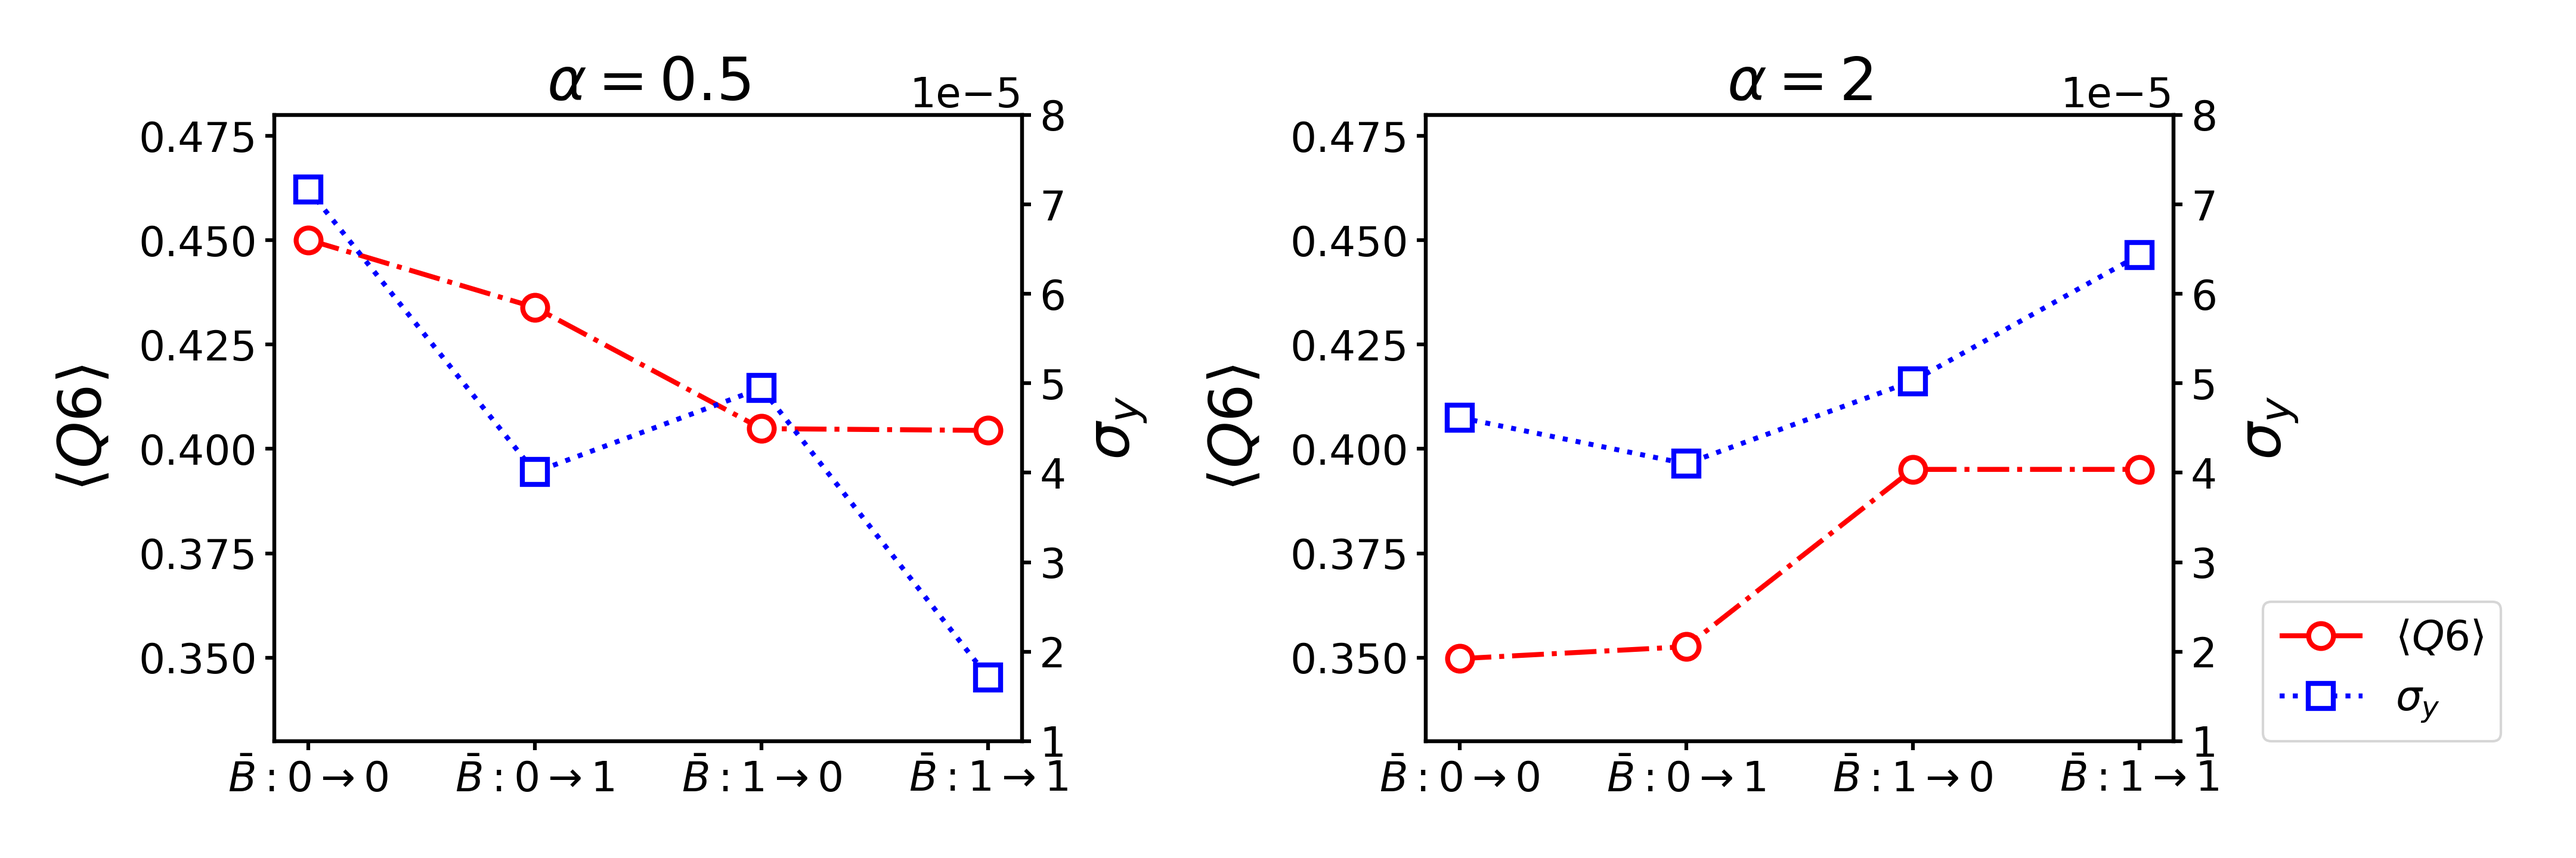
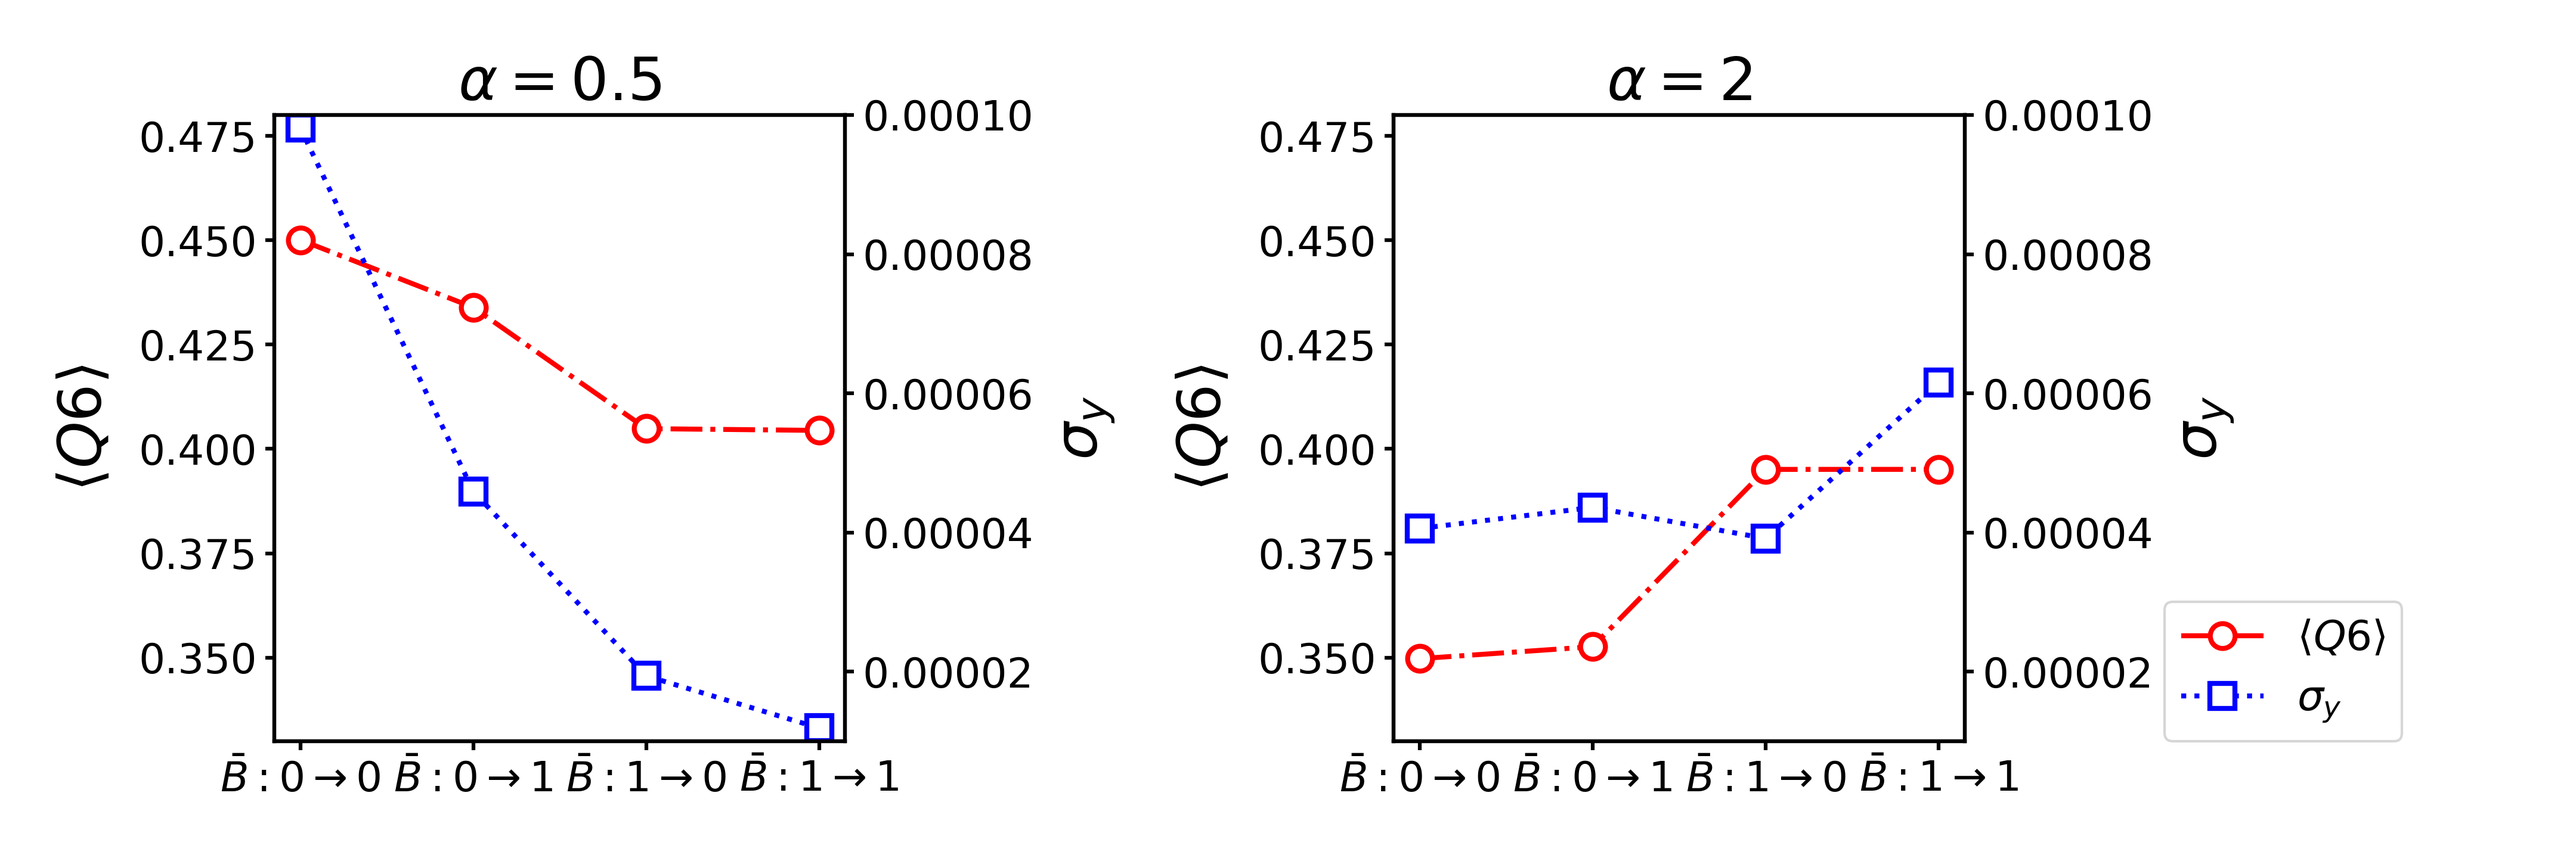
Changes 1. Modified rheology of bijels chapter

diff --git a/chapters/paper3.tex b/chapters/paper3.tex
@@ -197,38 +197,65 @@ maximizes the interface covered by the particle. \cite{davies_dipolar_2015, davi
 out of the interface. Upon application of shear, the orientation of particles on the interface will be a function of the applied shear rate, 
 applied magnetic field and the capillary forces of the interface on the particle. \cite{cao_modeling_2021, chhabra_drag_1999, brenner_stokes_1963, naga_capillary_2021}
 Therefore, the degree of interface angle change observed can shed light onto the rheological 
-differences of bijels stabilized by prolate and oblate particles as the shear stress determined is affected by the particle rotation on the interface. 
+differences of bijels stabilized by prolate and oblate particles as the shear stress determined is affected by the particle rotation on the interface. We focus on
+the effect of particle alignment to the shear direction to isolate the effect of shear driven particle realignment at the interface. 
 
-We analyzed the angle between each particles symmetry axis and the local interface normal by generating a mesh of the interface using the marching 
+To assess the particle alignment to the applied shear, we calculate the average angle to the direction of shear, $\langle \theta_z \rangle$. This is calculated
+by calculating the angle between the orientation vector $\vec{o}$ and the z axis $\vec{r_z}$ given by 
+$\theta_z = \arccos(\frac{ \vec{o} \cdot \vec{r_z} }{ |\vec{o}| |\vec{r_z}| })$. This is done for all particles with $\langle \theta_z \rangle$ calculated from
+by taking the numerical average of $\theta_z$ for all particles. The results are plotted in Figure \ref{fig:theta_z_specific}.
+
+\begin{figure} 
+    \centering 
+    \includegraphics[scale=0.3]{../figures/results/paper3/theta_z-time_compare-specific.png} 
+    \caption{Comparisons of the interfacial angle of bijels stabilized by ellipsoidal particles as a function of 
+             the applied shear rate at four different processing histories. We show that upon application of shear
+             particles tilt out of the interface reduces the interfacial area stabilized. $\bar{B}: 0 \to 1$ shows 
+             large variations in the interface angle.} 
+    \label{fig:theta_z_specific} 
+\end{figure}
+
+From Figure \ref{fig:theta_z_specific}, the effect of the aspect ratio of the particle stabilizer and the ordering of particles to the magnetic field. For oblate 
+particles, the change in $\langle \theta_z \rangle$ over time can be seen to stay approximately the same at shear rates below $Ca = 1e-4$ However at higher shear rates,
+$\langle \theta_z \rangle$ increases rapidly. When comparing this to the results when beginning with magnetic field ordering, $\langle \theta_z \rangle$ can be seen to
+stay approximately the same only at $Ca = 1e-6$. This indicates shear driven reorientation of particles at the interface occurs at higher shear rates in bijels stabilized
+with disordered particles and matching the trend observed in the yield stress. The results for the prolate particles show that particle order increases the applied shear
+necessary to cause particle reorientation on the interface. When taking the $\langle Q6 \rangle$ results into context from Figure \ref{fig:q6_rheology_init}, 
+the effect of magnetic field driven ordering of particles can be seen.
+
+As the particles are adsorbed onto the interface, there is an open question whether the reorientation of particles to the shear also causes the interface to move with the
+particles. To analyze this effect, we analyzed the angle between each particles symmetry axis and the local interface normal by generating a mesh of the interface using the marching 
 cubes algorithm and, for each particle, identified the nearest mesh vertex (excluding those beyond the length of the particle's long axis). We then calculated 
 the angle $\psi$ between the particle orientation vector \(\hat{\vec{o}}_i\) and the local surface normal. The time evolution of the average interface
 angle of all particles $\langle \psi \rangle$, calculated as a numerical average of $\psi$ for all particles, is shown in Figure~\ref{fig:interface_angle_shear}.
 
 \begin{figure} 
     \centering 
-    \includegraphics[scale=0.3]{../figures/results/paper3/psi-time_compare.png} 
+    \includegraphics[scale=0.3]{../figures/results/paper3/psi-time_compare-specific.png} 
     \caption{Comparisons of the interfacial angle of bijels stabilized by ellipsoidal particles as a function of 
              the applied shear rate at four different processing histories. We show that upon application of shear
-             particles tilt out of the interface reduces the interfacial area stabilized. $\bar{B}: 0 \to 1$ shows 
-             large variations in the interface angle.} 
+             particles tilt out of the interface reduces the interfacial area stabilized.} 
     \label{fig:interface_angle_shear} 
 \end{figure}
 
-As shown in Figure~\ref{fig:interface_angle_shear}, the interface angle $\langle \psi \rangle$ generally increases over time across all cases, with the 
-exception of the $\bar{B}: 0 \rightarrow 1$ condition. This indicates shear induced particle reorientation at the interface, indicating that particles are
-being pulled out of the interface. The exception at $\bar{B}: 0 \rightarrow 1$ is consistent with the findings presented in Chapter~\ref{chapter:aim2}, where the 
-observed behavior was attributed to particle reorientation toward the applied magnetic field. In all other cases, the gradual increase in $\langle \psi \rangle$ 
-suggests that particles are progressively reorienting out of the interface under the influence of shear. For oblate particles initialized from bijel templates 
-generated under $\bar{B} = 1$, the average initial interface angle is approximately 40°, indicating a pronounced tilt at the interface. As the tilt angle 
-increases, the energy barrier to rotate a particle further out of the interface decreases, leading to reduced hydrodynamic drag and, consequently, lower 
-effective viscosity. In contrast, the difference in initial interface angle between field- and non-field-aligned bijels stabilized by prolate particles 
-is much smaller—approximately 13.5° and 11.5°, respectively. This smaller variation helps explain the more modest changes in rheological response observed 
-in prolate systems, compared to the more pronounced field-dependent behavior in oblate particle-stabilized bijels.
+The interfacial angle results reveal how particle orientation relative to the local interface evolves under varying shear conditions, highlighting the interplay between particle shape, 
+initial ordering, and shear rate. For disc-like particles, $\langle \psi \rangle$ increases steadily with time, especially at higher shear rates, indicating that shear 
+flow drives discs to tilt further away from the interface normal. This effect is strengthened when the particles are initially ordered as the particles are easier to rotate out of the
+interface when they are tilted. In contrast, rod-like particles exhibit more modest changes in $\langle \psi \rangle$ as the particles are closer to lying flat on the interface, meaning
+that higher shear rates are needed to tilt them out of the interface. This effect can be seen more clearly when comparing the results for ordered disc and rod like particles, with
+rod like particles demonstrating smaller average interfacial tilting than disc like particles.  
+
+Comparing the trends in $\langle \psi \rangle$ and $\langle \theta_z \rangle$ reveals a complementary view of how shear flow governs particle reorientation in bijels. For systems 
+stabilized with oblate particles under no magnetic field and prolate particles subjected to a magnetic field, the results show that at low shear rates, particles largely resist 
+reorientation due to interfacial jamming and anchoring forces. However, as the shear rate increases, both $\langle \psi \rangle$ and $\langle \theta_z \rangle$ rise, indicating that 
+particles begin to tilt away from both the interface normal and the shear direction. This suggests that while the particles remain adsorbed at the interface, the imposed shear is strong 
+enough to overcome local resistance and drive reorientation. The resulting changes in local packing and alignment are reflected in variations in the bond-orientational order parameter 
+$\langle Q6 \rangle$, particularly under conditions where the bijel retains structural integrity and resists complete flow-induced breakdown.
 
 \section{Conclusions}
 
 In this study, we investigated the rheological behavior of bijels stabilized by magnetically responsive ellipsoidal particles subjected to constant shear. 
-In systems like solvent transfer-induced phase separation (STrIPS) and volatile-induced phase separation (VIPS), rheology plays a key role in determining the
+In systems like Solvent Transfer Induced Phase Separation (STrIPS) and Vapor-Induced Phase Separation (VIPS), rheology plays a key role in determining the
 microstructure and morphology of the bijel. The presence of anisotropic particles and external magnetic fields further complicates this behavior 
 by altering interfacial structure. To systematically probe these effects, we employed a hybrid Lattice Boltzmann-Molecular Dynamics (LBM-MD) simulation 
 framework to evaluate how particle shape, magnetic field history, and interfacial microstructure jointly influence the flow response of bijels. 
@@ -243,15 +270,16 @@ by prolate particles exhibited more consistent rheological behavior, with yield 
 fully ordered structures ($\bar{B}:1 \rightarrow 1$) showed the highest resistance to flow for prolate particles, while oblate systems in the same condition 
 yielded more readily.
 
-To interpret these rheological differences, we analyzed both local structural ordering (via the Steinhardt $Q_6$ parameter) and particle orientation relative to 
-the interface. Increased magnetic alignment in prolate systems led to higher $Q_6$ values and lower interface angles, indicating that particles remained 
-well-anchored to the interface. This ordering enhanced stress distribution, leading to higher yield stress. In contrast, oblate particles 
-tended to tilt further from the interface when aligned, as confirmed by elevated interface angles and decreased $Q_6$, making the monolayer more susceptible to 
-shear-induced buckling and collapse. The increased interface angle of oblate particles after application of a field reduces the torque necessary to rotate particles
-out of the interface, resulting in the larger differences in shear stress calculated for bijels stabilized with oblate particles.
+To interpret these rheological differences, we analyzed the local structural ordering via the Steinhardt $Q_6$ parameter, and showed that increased magnetic alignment in 
+prolate systems led to higher $Q_6$ values which corresponds to greater friction between particles, which manifests as a greater yield stress. The opposite trend was
+characterized for oblate particles which explains the yield stress decrease as the particle order increases. To understand the effect of particle ordering 
+on the yielding behavior of the bijel better, we focused on the $\bar{B}:0 \rightarrow 0$ $\bar{B}:1 \rightarrow 1$. We showed from the angle of the particles to the applied
+shear, that bijels with greater local ordering resist shear better, as characterized by the lack of changes seen at lower shear rates compared to those with lower local
+particle order. At higher shear rates, the angle to the applied shear changes. The interface angle provides a complementary view of the interfacial dynamics of the particle 
+under shear, providing further evidence that the orientation of particles under shear corresponds to the local particle ordering. We also show that when the particles begin
+to reorient to the applied shear, the interface moves as well. 
 
 These findings highlight the interplay between particle anisotropy, interfacial order, and external magnetic fields in tuning the mechanical properties of bijels. 
-By modulating particle alignment through magnetic stimuli, it is possible to tailor the yield stress and flow behavior of these materials—a property of potential 
-interest in fields such as soft robotics, drug delivery, and responsive templating. Moreover, the contrast in behavior between oblate and prolate particles 
-underscores the importance of shape-specific design in engineering structured fluids. In the next chapter, we extend this investigation to consider dynamic or 
-transient shear regimes and explore the reversibility of these structural transitions under cyclic loading and field modulation.
+By modulating particle alignment through magnetic stimuli, it is possible to tailor the yield stress and flow behavior of these materials relevant in fields such as soft 
+robotics, drug delivery, and responsive templating. Moreover, the contrast in behavior between oblate and prolate particles 
+underscores the importance of particles in engineering the structure of bijels.
